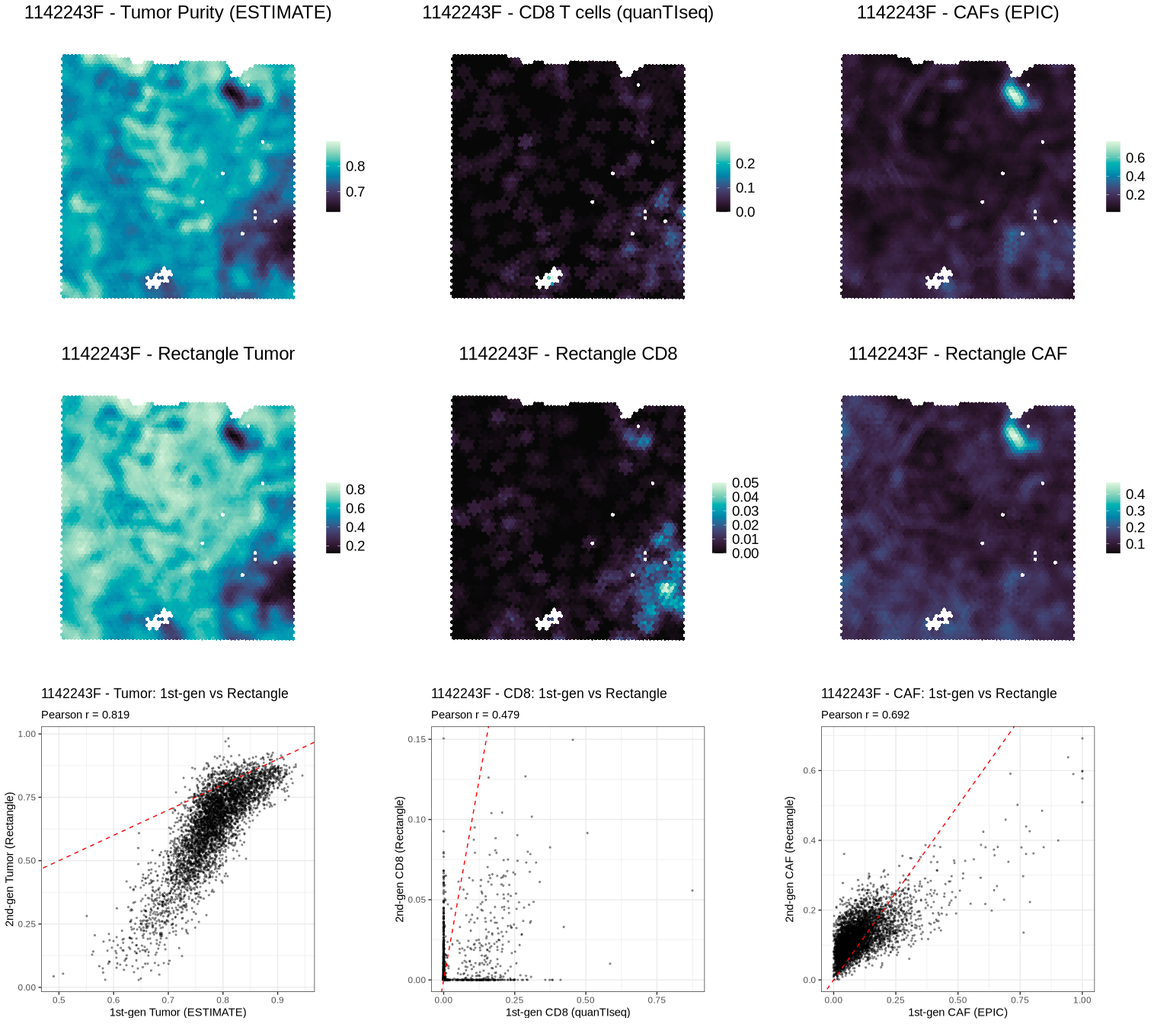
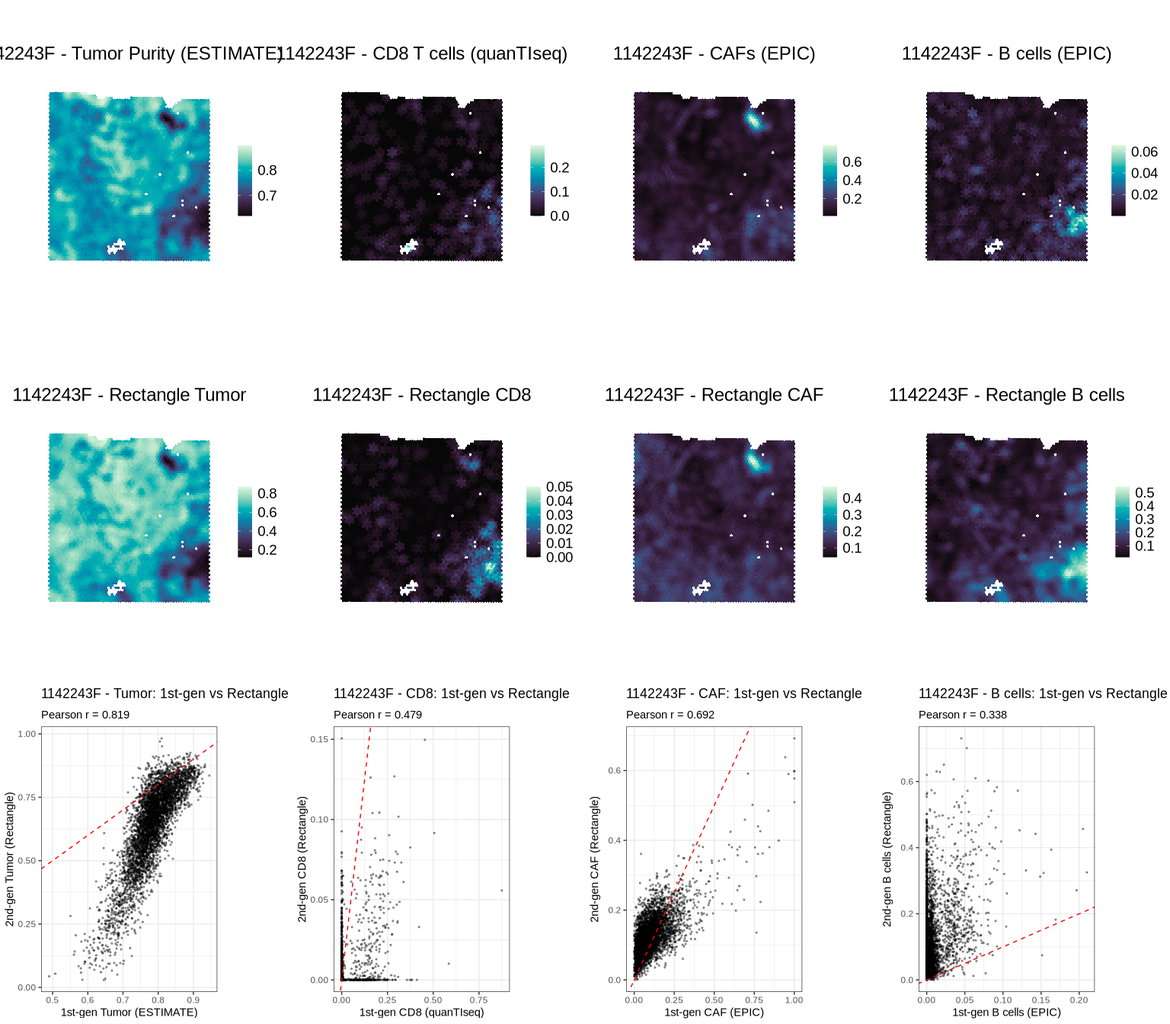
added by cell analysis

diff --git a/report/breast_cancer_analysis.md b/report/breast_cancer_analysis.md
@@ -86,7 +86,10 @@ for (i in seq_along(slides)) {
       "Cancer LumB SC",
       "Cancer Basal SC",
       "Cancer LumA SC",
-      "Unknown"
+      "Unknown",
+      "B cells Memory",
+      "B cells Naive",
+      "Plasmablasts"
     )
 
     if (all(req %in% colnames(rect))) {
@@ -94,11 +97,13 @@ for (i in seq_along(slides)) {
       rect_caf <- rect[["CAFs MSC iCAF-like"]] + rect[["CAFs myCAF-like"]]
       rect_tumor <- rect[["Cancer Her2 SC"]] + rect[["Cancer LumB SC"]] +
         rect[["Cancer Basal SC"]] + rect[["Cancer LumA SC"]] + rect[["Unknown"]]
+      rect_bcells <- rect[["B cells Memory"]] + rect[["B cells Naive"]] + rect[["Plasmablasts"]]
 
       idx <- match(colnames(est), rect$spot_id)
       SummarizedExperiment::colData(est)$rectangle_cd8 <- rect_cd8[idx]
       SummarizedExperiment::colData(est)$rectangle_caf <- rect_caf[idx]
       SummarizedExperiment::colData(est)$rectangle_tumor <- rect_tumor[idx]
+      SummarizedExperiment::colData(est)$rectangle_bcells <- rect_bcells[idx]
 
       p_rect_cd8 <- plot_spatial(
         est,
@@ -136,9 +141,34 @@ for (i in seq_along(slides)) {
         legend_size = legend_size
       )
 
+      p_bcells <- plot_spatial(
+        epi,
+        result = "epic_B.cell",
+        smooth = TRUE,
+        density = FALSE,
+        shift_positive = FALSE,
+        title = paste0(slide, " - B cells (EPIC)"),
+        title_size = title_size,
+        font_size = font_size,
+        legend_size = legend_size
+      )
+
+      p_rect_bcells <- plot_spatial(
+        est,
+        result = "rectangle_bcells",
+        smooth = TRUE,
+        density = FALSE,
+        shift_positive = FALSE,
+        title = paste0(slide, " - Rectangle B cells"),
+        title_size = title_size,
+        font_size = font_size,
+        legend_size = legend_size
+      )
+
       first_tumor <- SummarizedExperiment::colData(est)$estimate_tumor.purity
       first_cd8 <- SummarizedExperiment::colData(qua)$quantiseq_T.cell.CD8.
       first_caf <- SummarizedExperiment::colData(epi)$epic_Cancer.associated.fibroblast
+      first_bcells <- SummarizedExperiment::colData(epi)$epic_B.cell
 
       mk_scatter <- function(x, y, title, xlab, ylab) {
         d <- data.frame(x = as.numeric(x), y = as.numeric(y))
@@ -174,18 +204,46 @@ for (i in seq_along(slides)) {
         "1st-gen CAF (EPIC)",
         "2nd-gen CAF (Rectangle)"
       )
+      p_sc_bcells <- mk_scatter(
+        first_bcells, rect_bcells[idx],
+        paste0(slide, " - B cells: 1st-gen vs Rectangle"),
+        "1st-gen B cells (EPIC)",
+        "2nd-gen B cells (Rectangle)"
+      )
 
       panel <- cowplot::plot_grid(
-        p_tumor, p_cd8, p_caf,
-        p_rect_tumor, p_rect_cd8, p_rect_caf,
-        p_sc_tumor, p_sc_cd8, p_sc_caf,
-        ncol = 3, align = "hv"
+        p_tumor, p_cd8, p_caf, p_bcells,
+        p_rect_tumor, p_rect_cd8, p_rect_caf, p_rect_bcells,
+        p_sc_tumor, p_sc_cd8, p_sc_caf, p_sc_bcells,
+        ncol = 4, align = "hv"
       )
     } else {
-      panel <- cowplot::plot_grid(p_tumor, p_cd8, p_caf, ncol = 3, align = "hv")
+      p_bcells <- plot_spatial(
+        epi,
+        result = "epic_B.cell",
+        smooth = TRUE,
+        density = FALSE,
+        shift_positive = FALSE,
+        title = paste0(slide, " - B cells (EPIC)"),
+        title_size = title_size,
+        font_size = font_size,
+        legend_size = legend_size
+      )
+      panel <- cowplot::plot_grid(p_tumor, p_cd8, p_caf, p_bcells, ncol = 4, align = "hv")
     }
   } else {
-    panel <- cowplot::plot_grid(p_tumor, p_cd8, p_caf, ncol = 3, align = "hv")
+    p_bcells <- plot_spatial(
+      epi,
+      result = "epic_B.cell",
+      smooth = TRUE,
+      density = FALSE,
+      shift_positive = FALSE,
+      title = paste0(slide, " - B cells (EPIC)"),
+      title_size = title_size,
+      font_size = font_size,
+      legend_size = legend_size
+    )
+    panel <- cowplot::plot_grid(p_tumor, p_cd8, p_caf, p_bcells, ncol = 4, align = "hv")
   }
 
   print(panel)
@@ -193,7 +251,7 @@ for (i in seq_along(slides)) {
   ggsave(
     filename = file.path("../results/plots", paste0("slide_", slide, "_targets.png")),
     plot = panel,
-    width = 16,
+    width = 20,
     height = 14,
     units = "in",
     dpi = 300,
@@ -201,8 +259,6 @@ for (i in seq_along(slides)) {
   )
 }
 ```
-
-------------------------------------------------------------------------
 
 ![](breast_cancer_analysis_files/figure-gfm/per-slide-plots-1.png)<!-- -->
 
@@ -224,7 +280,11 @@ for (i in seq_along(slides)) {
 
 ------------------------------------------------------------------------
 
-![](breast_cancer_analysis_files/figure-gfm/per-slide-plots-6.png)<!-- -->![](breast_cancer_analysis_files/figure-gfm/per-slide-plots-7.png)<!-- -->
+![](breast_cancer_analysis_files/figure-gfm/per-slide-plots-6.png)<!-- -->
+
+------------------------------------------------------------------------
+
+![](breast_cancer_analysis_files/figure-gfm/per-slide-plots-7.png)<!-- -->
 
 ## Rectangle vs Existing Methods
 
@@ -247,11 +307,12 @@ if (length(rect_cols) == 0) {
 
   rect_cd8 <- pick_col(c("cd8", "t.cell", "cytotoxic"))
   rect_caf <- pick_col(c("caf", "fibro", "fibroblast", "stromal"))
+  rect_bcells <- pick_col(c("bcells", "b.cell", "plasmablast"))
 
   out <- data.frame(
-    metric = c("CD8 method correlation", "CAF method correlation"),
-    rectangle_column = c(rect_cd8, rect_caf),
-    correlation = c(NA_real_, NA_real_),
+    metric = c("CD8 method correlation", "CAF method correlation", "B-cell method correlation"),
+    rectangle_column = c(rect_cd8, rect_caf, rect_bcells),
+    correlation = c(NA_real_, NA_real_, NA_real_),
     stringsAsFactors = FALSE
   )
 
@@ -267,14 +328,21 @@ if (length(rect_cols) == 0) {
     )
   }
 
+  if (!is.na(rect_bcells) && "epic_B.cell" %in% colnames(tab)) {
+    out$correlation[out$metric == "B-cell method correlation"] <- suppressWarnings(
+      cor(tab[[rect_bcells]], tab[["epic_B.cell"]], use = "pairwise.complete.obs")
+    )
+  }
+
   knitr::kable(out)
 }
 ```
 
-| metric                 | rectangle_column             | correlation |
-|:-----------------------|:-----------------------------|------------:|
-| CD8 method correlation | rectangle_T.cells.CD8.       |   0.4886817 |
-| CAF method correlation | rectangle_CAFs.MSC.iCAF.like |   0.0254996 |
+| metric                    | rectangle_column             | correlation |
+|:--------------------------|:-----------------------------|------------:|
+| CD8 method correlation    | rectangle_T.cells.CD8.       |   0.4886817 |
+| CAF method correlation    | rectangle_CAFs.MSC.iCAF.like |   0.0254996 |
+| B-cell method correlation | rectangle_bcells             |          NA |
 
 ## Combined Table Preview
 
@@ -283,28 +351,28 @@ tab <- read.csv("../results/tables/targets_all_slides.csv")
 knitr::kable(head(tab, 20))
 ```
 
-| spot_id | slide_id | tumor_purity_estimate | cd8_quantiseq | caf_epic | pxl_col_in_fullres | pxl_row_in_fullres | rectangle_B.cells.Memory | rectangle_B.cells.Naive | rectangle_CAFs.MSC.iCAF.like | rectangle_CAFs.myCAF.like | rectangle_Cancer.Basal.SC | rectangle_Cancer.Her2.SC | rectangle_Cancer.LumA.SC | rectangle_Cancer.LumB.SC | rectangle_DCs | rectangle_Endothelial.ACKR1 | rectangle_Endothelial.CXCL12 | rectangle_Endothelial.Lymphatic.LYVE1 | rectangle_Endothelial.RGS5 | rectangle_Macrophage | rectangle_Monocyte | rectangle_NK.cells | rectangle_NKT.cells | rectangle_PVL.Differentiated | rectangle_PVL.Immature | rectangle_Plasmablasts | rectangle_T.cells.CD4. | rectangle_T.cells.CD8. | rectangle_Unknown | rectangle_cd8 | rectangle_caf | rectangle_tumor |
-|:---|:---|---:|---:|---:|---:|---:|---:|---:|---:|---:|---:|---:|---:|---:|---:|---:|---:|---:|---:|---:|---:|---:|---:|---:|---:|---:|---:|---:|---:|---:|---:|---:|
-| AAACAAGTATCTCCCA-1 | andersson | 0.5339460 | 0.0871836 | 0.2495293 | 17428 | 15937 | 0.0501497 | 0.0266308 | 0.1406418 | 0.0839039 | 0.0000000 | 0.0075550 | 0.0059735 | 0.1769761 | 0.0000000 | 0.0069837 | 0.0000000 | 0.0144462 | 0.0000000 | 0.1121091 | 0.0000000 | 0.0000000 | 0.0157839 | 0.0000000 | 0.0000000 | 0.3114611 | 0.0473852 | 0.0000000 | 0 | 0.0000000 | 0.2245457 | 0.1905045 |
-| AAACACCAATAACTGC-1 | andersson | 0.8913474 | 0.0000000 | 0.0419921 | 6092 | 18054 | 0.0074565 | 0.0000000 | 0.0000000 | 0.0373291 | 0.0000000 | 0.0000000 | 0.2666318 | 0.5970405 | 0.0000000 | 0.0103038 | 0.0086930 | 0.0004935 | 0.0123553 | 0.0362822 | 0.0000000 | 0.0000618 | 0.0021794 | 0.0004365 | 0.0004716 | 0.0009551 | 0.0191443 | 0.0001655 | 0 | 0.0001655 | 0.0373291 | 0.8636723 |
-| AAACAGAGCGACTCCT-1 | andersson | 0.7072153 | 0.0000000 | 0.1191177 | 16351 | 7383 | 0.0098232 | 0.0006526 | 0.1176037 | 0.0896541 | 0.0000000 | 0.0035756 | 0.2182837 | 0.2509523 | 0.0000000 | 0.0442392 | 0.0170961 | 0.0003363 | 0.0018443 | 0.0578972 | 0.0000000 | 0.0000000 | 0.0000000 | 0.0226944 | 0.0000258 | 0.1467402 | 0.0185814 | 0.0000000 | 0 | 0.0000000 | 0.2072578 | 0.4728115 |
-| AAACAGGGTCTATATT-1 | andersson | 0.5154692 | 0.1148961 | 0.0424538 | 5278 | 15202 | 0.0044474 | 0.1693358 | 0.0651675 | 0.0003214 | 0.0012364 | 0.0000000 | 0.0000000 | 0.0526989 | 0.0005876 | 0.0080821 | 0.0034648 | 0.0065632 | 0.0002665 | 0.0526273 | 0.0097502 | 0.0000000 | 0.0082132 | 0.0000000 | 0.0092215 | 0.5738284 | 0.0211250 | 0.0130628 | 0 | 0.0130628 | 0.0654889 | 0.0539353 |
-| AAACAGTGTTCCTGGG-1 | andersson | 0.8476866 | 0.0000000 | 0.1106762 | 9363 | 21386 | 0.0000291 | 0.0000000 | 0.0000000 | 0.1228636 | 0.0000000 | 0.0264198 | 0.4246001 | 0.3160945 | 0.0000000 | 0.0000475 | 0.0009044 | 0.0101102 | 0.0258428 | 0.0488592 | 0.0000000 | 0.0000000 | 0.0000000 | 0.0023984 | 0.0000000 | 0.0089205 | 0.0129099 | 0.0000000 | 0 | 0.0000000 | 0.1228636 | 0.7671144 |
-| AAACATTTCCCGGATT-1 | andersson | 0.8841088 | 0.0324866 | 0.0301322 | 16740 | 18549 | 0.0059929 | 0.0062991 | 0.0025000 | 0.0270072 | 0.0000000 | 0.0404122 | 0.2448762 | 0.5951687 | 0.0000000 | 0.0000000 | 0.0003992 | 0.0005753 | 0.0127382 | 0.0522793 | 0.0000000 | 0.0000000 | 0.0052602 | 0.0000000 | 0.0000000 | 0.0064915 | 0.0000000 | 0.0000000 | 0 | 0.0000000 | 0.0295072 | 0.8804570 |
-| AAACCCGAACGAAATC-1 | andersson | 0.5437192 | 0.0000000 | 0.2154445 | 19205 | 14752 | 0.0028808 | 0.0029405 | 0.0514767 | 0.1128346 | 0.0001609 | 0.0179932 | 0.0798569 | 0.1375747 | 0.0000000 | 0.0163766 | 0.0000000 | 0.0035103 | 0.0141820 | 0.1107053 | 0.0000000 | 0.0000000 | 0.0009872 | 0.0019494 | 0.0150606 | 0.3843314 | 0.0471789 | 0.0000000 | 0 | 0.0000000 | 0.1643113 | 0.2355857 |
-| AAACCGGGTAGGTACC-1 | andersson | 0.9024869 | 0.0000000 | 0.0238491 | 7328 | 14018 | 0.0046933 | 0.0000000 | 0.0000000 | 0.0194773 | 0.0000000 | 0.0654311 | 0.2401754 | 0.6116077 | 0.0000000 | 0.0017255 | 0.0000000 | 0.0026320 | 0.0046450 | 0.0407780 | 0.0000000 | 0.0000000 | 0.0000000 | 0.0002551 | 0.0000000 | 0.0018077 | 0.0067719 | 0.0000000 | 0 | 0.0000000 | 0.0194773 | 0.9172142 |
-| AAACCTAAGCAGCCGG-1 | andersson | 0.8391736 | 0.0000000 | 0.0974704 | 14827 | 19495 | 0.0071392 | 0.0000000 | 0.0000000 | 0.0850069 | 0.0000000 | 0.0587853 | 0.2898426 | 0.4316990 | 0.0000000 | 0.0028628 | 0.0001318 | 0.0008412 | 0.0106083 | 0.0469751 | 0.0000000 | 0.0000000 | 0.0016367 | 0.0000336 | 0.0146385 | 0.0479513 | 0.0000000 | 0.0018478 | 0 | 0.0018478 | 0.0850069 | 0.7803269 |
-| AAACCTCATGAAGTTG-1 | andersson | 0.7184005 | 0.0615161 | 0.1841585 | 6102 | 12828 | 0.0047508 | 0.0176011 | 0.0000000 | 0.1229345 | 0.0000000 | 0.0206276 | 0.2851940 | 0.2602810 | 0.0000000 | 0.0074570 | 0.0079902 | 0.0017924 | 0.0000933 | 0.0854518 | 0.0000000 | 0.0000000 | 0.0083368 | 0.0002791 | 0.0000000 | 0.1771278 | 0.0000827 | 0.0000000 | 0 | 0.0000000 | 0.1229345 | 0.5661026 |
-| AAACGAAGAACATACC-1 | andersson | 0.8814044 | 0.0688613 | 0.0241004 | 12259 | 5475 | 0.0050151 | 0.0057390 | 0.0087745 | 0.0208182 | 0.0104623 | 0.0629261 | 0.1306820 | 0.7073497 | 0.0000000 | 0.0012939 | 0.0032503 | 0.0016682 | 0.0000000 | 0.0291371 | 0.0000000 | 0.0000000 | 0.0000000 | 0.0013094 | 0.0000000 | 0.0001988 | 0.0089185 | 0.0024570 | 0 | 0.0024570 | 0.0295927 | 0.9114201 |
-| AAACGAGACGGTTGAT-1 | andersson | 0.7612716 | 0.0275129 | 0.0913638 | 14294 | 12368 | 0.0038925 | 0.0056734 | 0.0252138 | 0.0597814 | 0.0000000 | 0.0053308 | 0.1956797 | 0.5930813 | 0.0000000 | 0.0008606 | 0.0000000 | 0.0008623 | 0.0005894 | 0.0551863 | 0.0000171 | 0.0000000 | 0.0000000 | 0.0000329 | 0.0005775 | 0.0001360 | 0.0530850 | 0.0000000 | 0 | 0.0000000 | 0.0849953 | 0.7940918 |
-| AAACGCCCGAGATCGG-1 | andersson | 0.7687589 | 0.0000000 | 0.0516603 | 18267 | 5011 | 0.0062979 | 0.0000000 | 0.0000000 | 0.0530647 | 0.0000000 | 0.0039437 | 0.3984234 | 0.3147876 | 0.0000000 | 0.0190202 | 0.0248885 | 0.0008045 | 0.0005888 | 0.0658064 | 0.0000000 | 0.0000000 | 0.0000000 | 0.0062817 | 0.0001919 | 0.1059006 | 0.0000000 | 0.0000000 | 0 | 0.0000000 | 0.0530647 | 0.7171547 |
-| AAACGGGCGTACGGGT-1 | andersson | 0.8917116 | 0.0182992 | 0.0301744 | 15919 | 19497 | 0.0054740 | 0.0000000 | 0.0000000 | 0.0280256 | 0.0001963 | 0.0425671 | 0.1621695 | 0.6683236 | 0.0000000 | 0.0000000 | 0.0000722 | 0.0079678 | 0.0080505 | 0.0426481 | 0.0135469 | 0.0000014 | 0.0004270 | 0.0000326 | 0.0000000 | 0.0017547 | 0.0113934 | 0.0073491 | 0 | 0.0073491 | 0.0280256 | 0.8732566 |
-| AAACGGTTGCGAACTG-1 | andersson | 0.7230822 | 0.0000000 | 0.1443731 | 11550 | 19964 | 0.0058480 | 0.0000000 | 0.0000000 | 0.1026272 | 0.0000000 | 0.0009709 | 0.3793356 | 0.1871707 | 0.0000000 | 0.0000000 | 0.0000000 | 0.0000061 | 0.0181729 | 0.1246743 | 0.0000000 | 0.0000000 | 0.0000000 | 0.0000000 | 0.0017205 | 0.1451402 | 0.0343337 | 0.0000000 | 0 | 0.0000000 | 0.1026272 | 0.5674772 |
-| AAACGTGTTCGCCCTA-1 | andersson | 0.6892423 | 0.0000000 | 0.0681070 | 19628 | 7389 | 0.0041347 | 0.0000000 | 0.1400806 | 0.0289693 | 0.0000000 | 0.0000000 | 0.0881212 | 0.3652182 | 0.0000000 | 0.0282863 | 0.0816869 | 0.0152708 | 0.0000000 | 0.0541120 | 0.0000000 | 0.0000000 | 0.0000933 | 0.1523680 | 0.0000000 | 0.0416589 | 0.0000000 | 0.0000000 | 0 | 0.0000000 | 0.1690499 | 0.4533393 |
-| AAACTAACGTGGCGAC-1 | andersson | 0.7234872 | 0.0000000 | 0.0995721 | 18538 | 5962 | 0.0444641 | 0.0000000 | 0.0155334 | 0.0781562 | 0.0000000 | 0.0000000 | 0.0000000 | 0.3883117 | 0.0000000 | 0.0010836 | 0.0000000 | 0.1562012 | 0.0029495 | 0.0907276 | 0.0000000 | 0.0000000 | 0.0000000 | 0.0712989 | 0.0000000 | 0.1512737 | 0.0000000 | 0.0000000 | 0 | 0.0000000 | 0.0936896 | 0.3883117 |
-| AAACTCGGTTCGCAAT-1 | andersson | 0.9032156 | 0.0000000 | 0.0476065 | 13052 | 19730 | 0.0061762 | 0.0068990 | 0.0000000 | 0.0447374 | 0.0000000 | 0.0096307 | 0.3152431 | 0.5532082 | 0.0000000 | 0.0000000 | 0.0000000 | 0.0003048 | 0.0114059 | 0.0349871 | 0.0000000 | 0.0000000 | 0.0000000 | 0.0000000 | 0.0002962 | 0.0048157 | 0.0101498 | 0.0021459 | 0 | 0.0021459 | 0.0447374 | 0.8780820 |
-| AAACTCGTGATATAAG-1 | andersson | 0.7274750 | 0.0000000 | 0.2223779 | 18941 | 9526 | 0.0220882 | 0.0989790 | 0.2591274 | 0.0594801 | 0.0000000 | 0.0236680 | 0.1013734 | 0.2410761 | 0.0000000 | 0.0262677 | 0.0000000 | 0.0940375 | 0.0000000 | 0.0212985 | 0.0000000 | 0.0007381 | 0.0000000 | 0.0000000 | 0.0010049 | 0.0309130 | 0.0199480 | 0.0000000 | 0 | 0.0000000 | 0.3186076 | 0.3661175 |
-| AAACTGCTGGCTCCAA-1 | andersson | 0.7585878 | 0.0000000 | 0.0612951 | 12651 | 14740 | 0.0046539 | 0.0000000 | 0.0000000 | 0.0633006 | 0.0000000 | 0.0144207 | 0.2149913 | 0.5253384 | 0.0081946 | 0.0000000 | 0.0000000 | 0.0024502 | 0.0037982 | 0.0624143 | 0.0000000 | 0.0101877 | 0.0000000 | 0.0011342 | 0.0350739 | 0.0540421 | 0.0000000 | 0.0000000 | 0 | 0.0000000 | 0.0633006 | 0.7547504 |
+| spot_id | slide_id | tumor_purity_estimate | cd8_quantiseq | caf_epic | pxl_col_in_fullres | pxl_row_in_fullres | rectangle_B.cells.Memory | rectangle_B.cells.Naive | rectangle_CAFs.MSC.iCAF.like | rectangle_CAFs.myCAF.like | rectangle_Cancer.Basal.SC | rectangle_Cancer.Her2.SC | rectangle_Cancer.LumA.SC | rectangle_Cancer.LumB.SC | rectangle_DCs | rectangle_Endothelial.ACKR1 | rectangle_Endothelial.CXCL12 | rectangle_Endothelial.Lymphatic.LYVE1 | rectangle_Endothelial.RGS5 | rectangle_Macrophage | rectangle_Monocyte | rectangle_NK.cells | rectangle_NKT.cells | rectangle_PVL.Differentiated | rectangle_PVL.Immature | rectangle_Plasmablasts | rectangle_T.cells.CD4. | rectangle_T.cells.CD8. | rectangle_Unknown | rectangle_cd8 | rectangle_caf | rectangle_tumor | rectangle_bcells |
+|:---|:---|---:|---:|---:|---:|---:|---:|---:|---:|---:|---:|---:|---:|---:|---:|---:|---:|---:|---:|---:|---:|---:|---:|---:|---:|---:|---:|---:|---:|---:|---:|---:|---:|
+| AAACAAGTATCTCCCA-1 | andersson | 0.5339460 | 0.0871836 | 0.2495293 | 17428 | 15937 | 0.0501497 | 0.0266308 | 0.1406418 | 0.0839039 | 0.0000000 | 0.0075550 | 0.0059735 | 0.1769761 | 0.0000000 | 0.0069837 | 0.0000000 | 0.0144462 | 0.0000000 | 0.1121091 | 0.0000000 | 0.0000000 | 0.0157839 | 0.0000000 | 0.0000000 | 0.3114611 | 0.0473852 | 0.0000000 | 0 | 0.0000000 | 0.2245457 | 0.1905045 | 0.3882416 |
+| AAACACCAATAACTGC-1 | andersson | 0.8913474 | 0.0000000 | 0.0419921 | 6092 | 18054 | 0.0074565 | 0.0000000 | 0.0000000 | 0.0373291 | 0.0000000 | 0.0000000 | 0.2666318 | 0.5970405 | 0.0000000 | 0.0103038 | 0.0086930 | 0.0004935 | 0.0123553 | 0.0362822 | 0.0000000 | 0.0000618 | 0.0021794 | 0.0004365 | 0.0004716 | 0.0009551 | 0.0191443 | 0.0001655 | 0 | 0.0001655 | 0.0373291 | 0.8636723 | 0.0084116 |
+| AAACAGAGCGACTCCT-1 | andersson | 0.7072153 | 0.0000000 | 0.1191177 | 16351 | 7383 | 0.0098232 | 0.0006526 | 0.1176037 | 0.0896541 | 0.0000000 | 0.0035756 | 0.2182837 | 0.2509523 | 0.0000000 | 0.0442392 | 0.0170961 | 0.0003363 | 0.0018443 | 0.0578972 | 0.0000000 | 0.0000000 | 0.0000000 | 0.0226944 | 0.0000258 | 0.1467402 | 0.0185814 | 0.0000000 | 0 | 0.0000000 | 0.2072578 | 0.4728115 | 0.1572160 |
+| AAACAGGGTCTATATT-1 | andersson | 0.5154692 | 0.1148961 | 0.0424538 | 5278 | 15202 | 0.0044474 | 0.1693358 | 0.0651675 | 0.0003214 | 0.0012364 | 0.0000000 | 0.0000000 | 0.0526989 | 0.0005876 | 0.0080821 | 0.0034648 | 0.0065632 | 0.0002665 | 0.0526273 | 0.0097502 | 0.0000000 | 0.0082132 | 0.0000000 | 0.0092215 | 0.5738284 | 0.0211250 | 0.0130628 | 0 | 0.0130628 | 0.0654889 | 0.0539353 | 0.7476117 |
+| AAACAGTGTTCCTGGG-1 | andersson | 0.8476866 | 0.0000000 | 0.1106762 | 9363 | 21386 | 0.0000291 | 0.0000000 | 0.0000000 | 0.1228636 | 0.0000000 | 0.0264198 | 0.4246001 | 0.3160945 | 0.0000000 | 0.0000475 | 0.0009044 | 0.0101102 | 0.0258428 | 0.0488592 | 0.0000000 | 0.0000000 | 0.0000000 | 0.0023984 | 0.0000000 | 0.0089205 | 0.0129099 | 0.0000000 | 0 | 0.0000000 | 0.1228636 | 0.7671144 | 0.0089496 |
+| AAACATTTCCCGGATT-1 | andersson | 0.8841088 | 0.0324866 | 0.0301322 | 16740 | 18549 | 0.0059929 | 0.0062991 | 0.0025000 | 0.0270072 | 0.0000000 | 0.0404122 | 0.2448762 | 0.5951687 | 0.0000000 | 0.0000000 | 0.0003992 | 0.0005753 | 0.0127382 | 0.0522793 | 0.0000000 | 0.0000000 | 0.0052602 | 0.0000000 | 0.0000000 | 0.0064915 | 0.0000000 | 0.0000000 | 0 | 0.0000000 | 0.0295072 | 0.8804570 | 0.0187835 |
+| AAACCCGAACGAAATC-1 | andersson | 0.5437192 | 0.0000000 | 0.2154445 | 19205 | 14752 | 0.0028808 | 0.0029405 | 0.0514767 | 0.1128346 | 0.0001609 | 0.0179932 | 0.0798569 | 0.1375747 | 0.0000000 | 0.0163766 | 0.0000000 | 0.0035103 | 0.0141820 | 0.1107053 | 0.0000000 | 0.0000000 | 0.0009872 | 0.0019494 | 0.0150606 | 0.3843314 | 0.0471789 | 0.0000000 | 0 | 0.0000000 | 0.1643113 | 0.2355857 | 0.3901527 |
+| AAACCGGGTAGGTACC-1 | andersson | 0.9024869 | 0.0000000 | 0.0238491 | 7328 | 14018 | 0.0046933 | 0.0000000 | 0.0000000 | 0.0194773 | 0.0000000 | 0.0654311 | 0.2401754 | 0.6116077 | 0.0000000 | 0.0017255 | 0.0000000 | 0.0026320 | 0.0046450 | 0.0407780 | 0.0000000 | 0.0000000 | 0.0000000 | 0.0002551 | 0.0000000 | 0.0018077 | 0.0067719 | 0.0000000 | 0 | 0.0000000 | 0.0194773 | 0.9172142 | 0.0065010 |
+| AAACCTAAGCAGCCGG-1 | andersson | 0.8391736 | 0.0000000 | 0.0974704 | 14827 | 19495 | 0.0071392 | 0.0000000 | 0.0000000 | 0.0850069 | 0.0000000 | 0.0587853 | 0.2898426 | 0.4316990 | 0.0000000 | 0.0028628 | 0.0001318 | 0.0008412 | 0.0106083 | 0.0469751 | 0.0000000 | 0.0000000 | 0.0016367 | 0.0000336 | 0.0146385 | 0.0479513 | 0.0000000 | 0.0018478 | 0 | 0.0018478 | 0.0850069 | 0.7803269 | 0.0550905 |
+| AAACCTCATGAAGTTG-1 | andersson | 0.7184005 | 0.0615161 | 0.1841585 | 6102 | 12828 | 0.0047508 | 0.0176011 | 0.0000000 | 0.1229345 | 0.0000000 | 0.0206276 | 0.2851940 | 0.2602810 | 0.0000000 | 0.0074570 | 0.0079902 | 0.0017924 | 0.0000933 | 0.0854518 | 0.0000000 | 0.0000000 | 0.0083368 | 0.0002791 | 0.0000000 | 0.1771278 | 0.0000827 | 0.0000000 | 0 | 0.0000000 | 0.1229345 | 0.5661026 | 0.1994797 |
+| AAACGAAGAACATACC-1 | andersson | 0.8814044 | 0.0688613 | 0.0241004 | 12259 | 5475 | 0.0050151 | 0.0057390 | 0.0087745 | 0.0208182 | 0.0104623 | 0.0629261 | 0.1306820 | 0.7073497 | 0.0000000 | 0.0012939 | 0.0032503 | 0.0016682 | 0.0000000 | 0.0291371 | 0.0000000 | 0.0000000 | 0.0000000 | 0.0013094 | 0.0000000 | 0.0001988 | 0.0089185 | 0.0024570 | 0 | 0.0024570 | 0.0295927 | 0.9114201 | 0.0109529 |
+| AAACGAGACGGTTGAT-1 | andersson | 0.7612716 | 0.0275129 | 0.0913638 | 14294 | 12368 | 0.0038925 | 0.0056734 | 0.0252138 | 0.0597814 | 0.0000000 | 0.0053308 | 0.1956797 | 0.5930813 | 0.0000000 | 0.0008606 | 0.0000000 | 0.0008623 | 0.0005894 | 0.0551863 | 0.0000171 | 0.0000000 | 0.0000000 | 0.0000329 | 0.0005775 | 0.0001360 | 0.0530850 | 0.0000000 | 0 | 0.0000000 | 0.0849953 | 0.7940918 | 0.0097019 |
+| AAACGCCCGAGATCGG-1 | andersson | 0.7687589 | 0.0000000 | 0.0516603 | 18267 | 5011 | 0.0062979 | 0.0000000 | 0.0000000 | 0.0530647 | 0.0000000 | 0.0039437 | 0.3984234 | 0.3147876 | 0.0000000 | 0.0190202 | 0.0248885 | 0.0008045 | 0.0005888 | 0.0658064 | 0.0000000 | 0.0000000 | 0.0000000 | 0.0062817 | 0.0001919 | 0.1059006 | 0.0000000 | 0.0000000 | 0 | 0.0000000 | 0.0530647 | 0.7171547 | 0.1121985 |
+| AAACGGGCGTACGGGT-1 | andersson | 0.8917116 | 0.0182992 | 0.0301744 | 15919 | 19497 | 0.0054740 | 0.0000000 | 0.0000000 | 0.0280256 | 0.0001963 | 0.0425671 | 0.1621695 | 0.6683236 | 0.0000000 | 0.0000000 | 0.0000722 | 0.0079678 | 0.0080505 | 0.0426481 | 0.0135469 | 0.0000014 | 0.0004270 | 0.0000326 | 0.0000000 | 0.0017547 | 0.0113934 | 0.0073491 | 0 | 0.0073491 | 0.0280256 | 0.8732566 | 0.0072286 |
+| AAACGGTTGCGAACTG-1 | andersson | 0.7230822 | 0.0000000 | 0.1443731 | 11550 | 19964 | 0.0058480 | 0.0000000 | 0.0000000 | 0.1026272 | 0.0000000 | 0.0009709 | 0.3793356 | 0.1871707 | 0.0000000 | 0.0000000 | 0.0000000 | 0.0000061 | 0.0181729 | 0.1246743 | 0.0000000 | 0.0000000 | 0.0000000 | 0.0000000 | 0.0017205 | 0.1451402 | 0.0343337 | 0.0000000 | 0 | 0.0000000 | 0.1026272 | 0.5674772 | 0.1509882 |
+| AAACGTGTTCGCCCTA-1 | andersson | 0.6892423 | 0.0000000 | 0.0681070 | 19628 | 7389 | 0.0041347 | 0.0000000 | 0.1400806 | 0.0289693 | 0.0000000 | 0.0000000 | 0.0881212 | 0.3652182 | 0.0000000 | 0.0282863 | 0.0816869 | 0.0152708 | 0.0000000 | 0.0541120 | 0.0000000 | 0.0000000 | 0.0000933 | 0.1523680 | 0.0000000 | 0.0416589 | 0.0000000 | 0.0000000 | 0 | 0.0000000 | 0.1690499 | 0.4533393 | 0.0457935 |
+| AAACTAACGTGGCGAC-1 | andersson | 0.7234872 | 0.0000000 | 0.0995721 | 18538 | 5962 | 0.0444641 | 0.0000000 | 0.0155334 | 0.0781562 | 0.0000000 | 0.0000000 | 0.0000000 | 0.3883117 | 0.0000000 | 0.0010836 | 0.0000000 | 0.1562012 | 0.0029495 | 0.0907276 | 0.0000000 | 0.0000000 | 0.0000000 | 0.0712989 | 0.0000000 | 0.1512737 | 0.0000000 | 0.0000000 | 0 | 0.0000000 | 0.0936896 | 0.3883117 | 0.1957378 |
+| AAACTCGGTTCGCAAT-1 | andersson | 0.9032156 | 0.0000000 | 0.0476065 | 13052 | 19730 | 0.0061762 | 0.0068990 | 0.0000000 | 0.0447374 | 0.0000000 | 0.0096307 | 0.3152431 | 0.5532082 | 0.0000000 | 0.0000000 | 0.0000000 | 0.0003048 | 0.0114059 | 0.0349871 | 0.0000000 | 0.0000000 | 0.0000000 | 0.0000000 | 0.0002962 | 0.0048157 | 0.0101498 | 0.0021459 | 0 | 0.0021459 | 0.0447374 | 0.8780820 | 0.0178909 |
+| AAACTCGTGATATAAG-1 | andersson | 0.7274750 | 0.0000000 | 0.2223779 | 18941 | 9526 | 0.0220882 | 0.0989790 | 0.2591274 | 0.0594801 | 0.0000000 | 0.0236680 | 0.1013734 | 0.2410761 | 0.0000000 | 0.0262677 | 0.0000000 | 0.0940375 | 0.0000000 | 0.0212985 | 0.0000000 | 0.0007381 | 0.0000000 | 0.0000000 | 0.0010049 | 0.0309130 | 0.0199480 | 0.0000000 | 0 | 0.0000000 | 0.3186076 | 0.3661175 | 0.1519802 |
+| AAACTGCTGGCTCCAA-1 | andersson | 0.7585878 | 0.0000000 | 0.0612951 | 12651 | 14740 | 0.0046539 | 0.0000000 | 0.0000000 | 0.0633006 | 0.0000000 | 0.0144207 | 0.2149913 | 0.5253384 | 0.0081946 | 0.0000000 | 0.0000000 | 0.0024502 | 0.0037982 | 0.0624143 | 0.0000000 | 0.0101877 | 0.0000000 | 0.0011342 | 0.0350739 | 0.0540421 | 0.0000000 | 0.0000000 | 0 | 0.0000000 | 0.0633006 | 0.7547504 | 0.0586960 |
 
 ## Session Info
 
@@ -334,14 +402,14 @@ sessionInfo()
     ## [1] stats     graphics  grDevices utils     datasets  methods   base     
     ## 
     ## other attached packages:
-    ## [1] cowplot_1.2.0     ggplot2_4.0.2     spacedeconv_1.0.0 rmarkdown_2.29   
+    ## [1] cowplot_1.2.0     ggplot2_3.5.2     spacedeconv_1.0.0 rmarkdown_2.29   
     ## 
     ## loaded via a namespace (and not attached):
     ##   [1] DBI_1.2.3                   mnormt_2.1.1               
     ##   [3] bitops_1.0-9                remotes_2.5.0              
     ##   [5] logger_0.4.0                readxl_1.4.5               
     ##   [7] rlang_1.1.6                 magrittr_2.0.3             
-    ##   [9] e1071_1.7-17                matrixStats_1.5.0          
+    ##   [9] e1071_1.7-16                matrixStats_1.5.0          
     ##  [11] ggridges_0.5.7              compiler_4.3.3             
     ##  [13] systemfonts_1.2.3           png_0.1-8                  
     ##  [15] vctrs_0.6.5                 rvest_1.0.5                
@@ -360,7 +428,7 @@ sessionInfo()
     ##  [41] parallel_4.3.3              broom_1.0.9                
     ##  [43] prettyunits_1.2.0           R6_2.6.1                   
     ##  [45] stringi_1.8.7               RColorBrewer_1.1-3         
-    ##  [47] reticulate_1.45.0           testit_0.13                
+    ##  [47] reticulate_1.43.0           testit_0.13                
     ##  [49] car_3.1-3                   diptest_0.77-2             
     ##  [51] GenomicRanges_1.54.1        lubridate_1.9.4            
     ##  [53] cellranger_1.1.0            Rcpp_1.1.0                 
@@ -373,31 +441,30 @@ sessionInfo()
     ##  [67] curl_7.0.0                  lattice_0.22-7             
     ##  [69] tibble_3.3.0                Biobase_2.62.0             
     ##  [71] ks_1.15.1                   withr_3.0.2                
-    ##  [73] S7_0.2.0                    evaluate_1.0.5             
-    ##  [75] sf_1.0-20                   units_0.8-7                
-    ##  [77] proxy_0.4-27                xml2_1.4.0                 
-    ##  [79] circlize_0.4.16             mclust_6.1.1               
-    ##  [81] pillar_1.11.0               ggpubr_0.6.1               
-    ##  [83] MatrixGenerics_1.14.0       Giotto_3.3.2               
-    ##  [85] carData_3.0-5               KernSmooth_2.23-26         
-    ##  [87] corrplot_0.95               checkmate_2.3.3            
-    ##  [89] stats4_4.3.3                generics_0.1.4             
-    ##  [91] RCurl_1.98-1.17             S4Vectors_0.40.2           
-    ##  [93] hms_1.1.3                   scales_1.4.0               
-    ##  [95] rootSolve_1.8.2.4           OmnipathR_3.10.1           
-    ##  [97] class_7.3-23                glue_1.8.0                 
-    ##  [99] tools_4.3.3                 data.table_1.17.8          
-    ## [101] ggsignif_0.6.4              mvtnorm_1.3-3              
-    ## [103] grid_4.3.3                  tidyr_1.3.1                
-    ## [105] colorspace_2.1-1            SingleCellExperiment_1.24.0
-    ## [107] nlme_3.1-168                GenomeInfoDbData_1.2.11    
-    ## [109] Formula_1.2-5               cli_3.6.5                  
-    ## [111] rappdirs_0.3.3              textshaping_1.0.1          
-    ## [113] S4Arrays_1.2.0              dplyr_1.1.4                
-    ## [115] gtable_0.3.6                rstatix_0.7.2              
-    ## [117] multimode_1.5               digest_0.6.37              
-    ## [119] classInt_0.4-11             BiocGenerics_0.48.1        
-    ## [121] SparseArray_1.2.2           rjson_0.2.23               
-    ## [123] farver_2.1.2                htmltools_0.5.8.1          
-    ## [125] lifecycle_1.0.4             httr_1.4.7                 
-    ## [127] GlobalOptions_0.1.2
+    ##  [73] evaluate_1.0.5              sf_1.0-20                  
+    ##  [75] units_0.8-7                 proxy_0.4-27               
+    ##  [77] xml2_1.4.0                  circlize_0.4.16            
+    ##  [79] mclust_6.1.1                pillar_1.11.0              
+    ##  [81] ggpubr_0.6.1                MatrixGenerics_1.14.0      
+    ##  [83] Giotto_3.3.2                carData_3.0-5              
+    ##  [85] KernSmooth_2.23-26          corrplot_0.95              
+    ##  [87] checkmate_2.3.3             stats4_4.3.3               
+    ##  [89] generics_0.1.4              RCurl_1.98-1.17            
+    ##  [91] S4Vectors_0.40.2            hms_1.1.3                  
+    ##  [93] scales_1.4.0                rootSolve_1.8.2.4          
+    ##  [95] OmnipathR_3.10.1            class_7.3-23               
+    ##  [97] glue_1.8.0                  tools_4.3.3                
+    ##  [99] data.table_1.17.8           ggsignif_0.6.4             
+    ## [101] mvtnorm_1.3-3               grid_4.3.3                 
+    ## [103] tidyr_1.3.1                 colorspace_2.1-1           
+    ## [105] SingleCellExperiment_1.24.0 nlme_3.1-168               
+    ## [107] GenomeInfoDbData_1.2.11     Formula_1.2-5              
+    ## [109] cli_3.6.5                   rappdirs_0.3.3             
+    ## [111] textshaping_1.0.1           S4Arrays_1.2.0             
+    ## [113] dplyr_1.1.4                 gtable_0.3.6               
+    ## [115] rstatix_0.7.2               multimode_1.5              
+    ## [117] digest_0.6.37               classInt_0.4-11            
+    ## [119] BiocGenerics_0.48.1         SparseArray_1.2.2          
+    ## [121] rjson_0.2.23                farver_2.1.2               
+    ## [123] htmltools_0.5.8.1           lifecycle_1.0.4            
+    ## [125] httr_1.4.7                  GlobalOptions_0.1.2

diff --git a/README.md b/README.md
@@ -5,6 +5,7 @@ This repository runs a breast-cancer spatial deconvolution analysis for the 7 sl
 - ESTIMATE tumor purity
 - quanTIseq CD8+ T cells
 - EPIC CAFs
+- EPIC B cells
 - Rectangle cell fractions (single-cell informed, using a Wu et al. reference)
 
 ## Data
